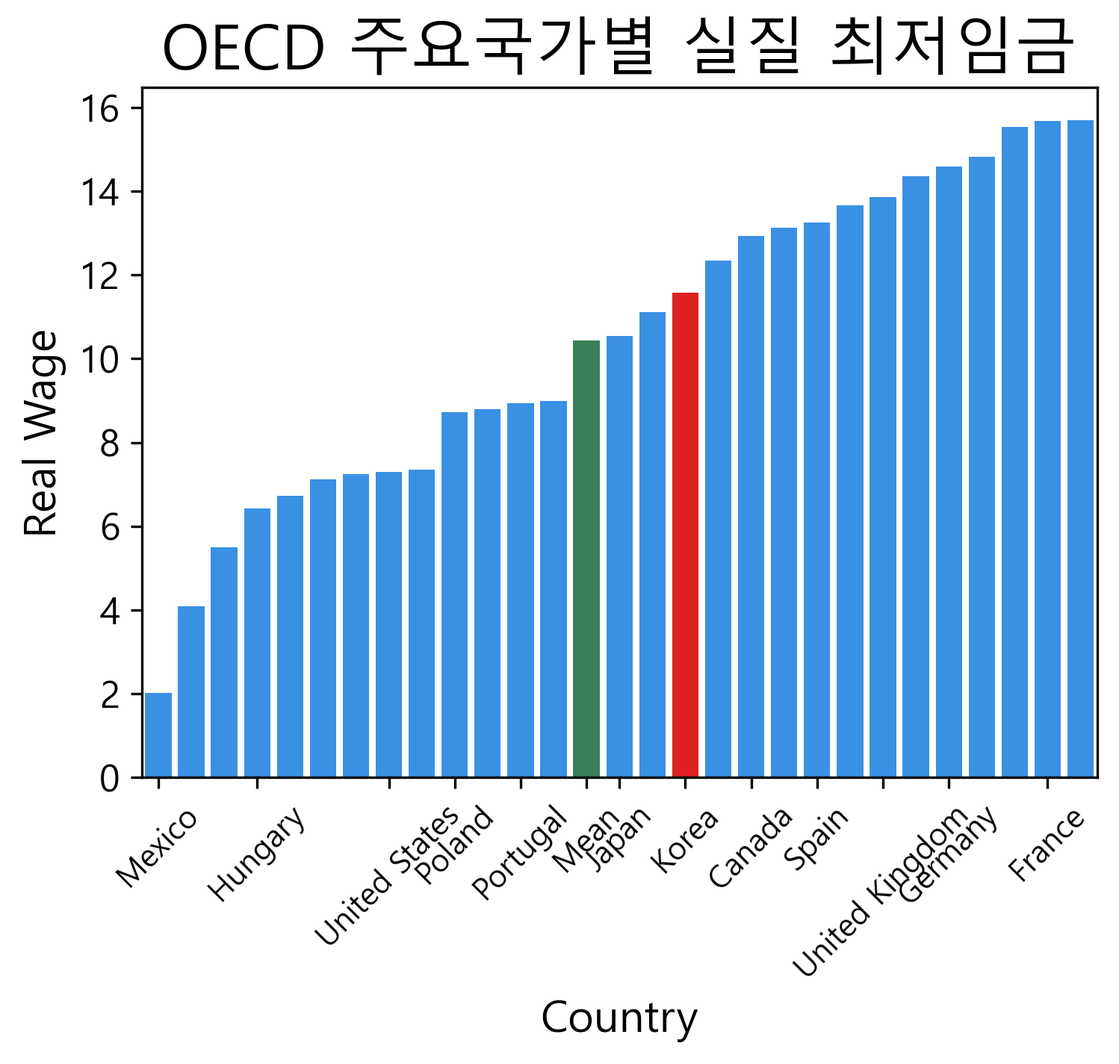
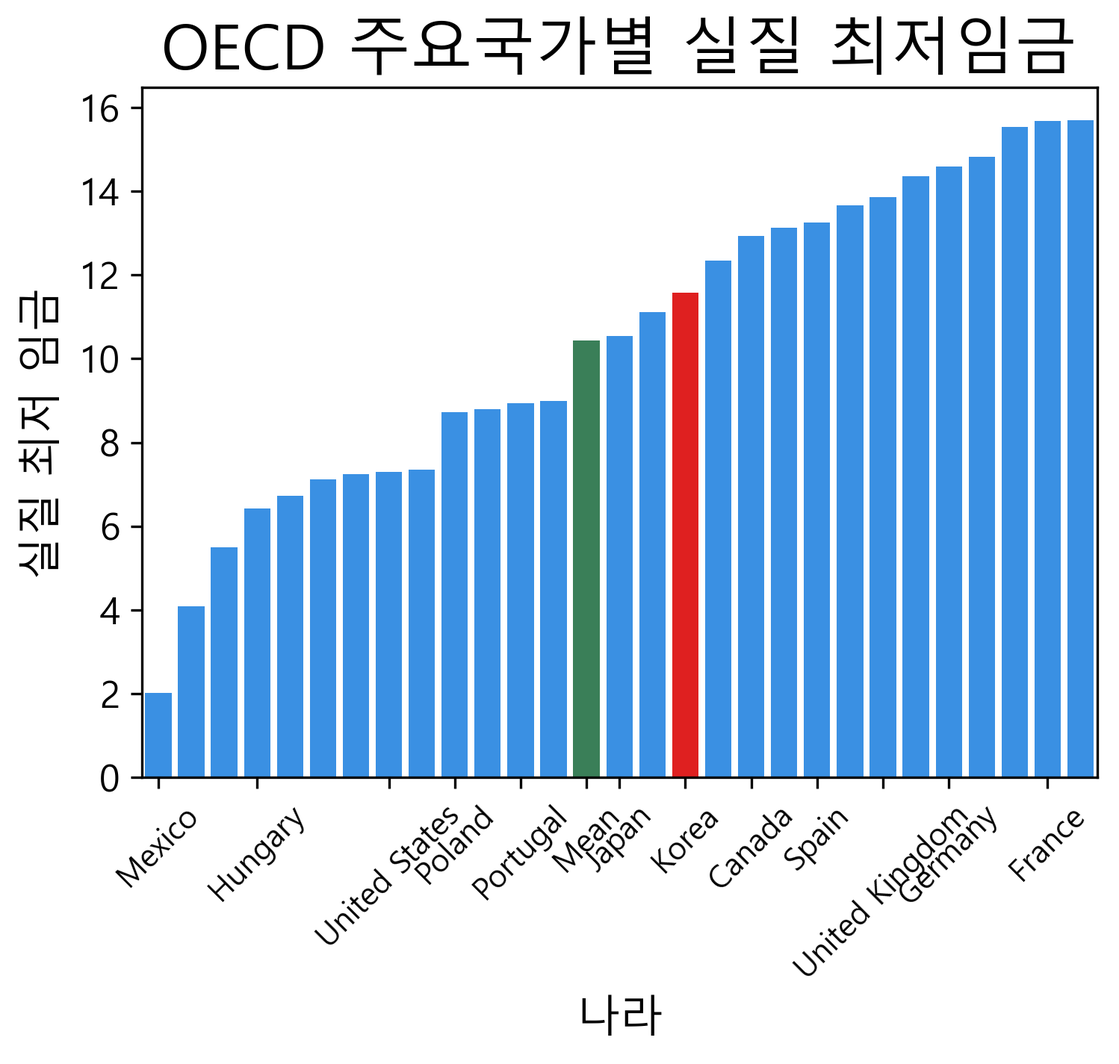
.

Changed region(s): [[0.0, 0.2779, 0.0614, 0.5558], [0.4913, 0.9263, 0.6142, 0.9881]]

diff --git a/docs/index.html b/docs/index.html
@@ -192,7 +192,7 @@ pre > code.sourceCode > span > a:first-child::before { text-decoration: underlin
 
 <section id="최저-임금-데이터-분석" class="level3">
 <h3 class="anchored" data-anchor-id="최저-임금-데이터-분석">최저 임금 데이터 분석</h3>
-<div id="7fcdc7ba" class="cell" data-execution_count="1">
+<div id="cab5e686" class="cell" data-execution_count="1">
 <div class="sourceCode cell-code" id="cb1"><pre class="sourceCode python code-with-copy"><code class="sourceCode python"><span id="cb1-1"><a href="#cb1-1" aria-hidden="true" tabindex="-1"></a><span class="im">import</span> pandas <span class="im">as</span> pd</span>
 <span id="cb1-2"><a href="#cb1-2" aria-hidden="true" tabindex="-1"></a><span class="im">import</span> numpy <span class="im">as</span> np</span>
 <span id="cb1-3"><a href="#cb1-3" aria-hidden="true" tabindex="-1"></a><span class="im">import</span> matplotlib.pyplot <span class="im">as</span> plt    </span>
@@ -242,7 +242,7 @@ pre > code.sourceCode > span > a:first-child::before { text-decoration: underlin
 <ul>
 <li>데이터 파일 읽어오기</li>
 </ul>
-<div id="f24a6ef8" class="cell" data-execution_count="2">
+<div id="66fa9a93" class="cell" data-execution_count="2">
 <div class="sourceCode cell-code" id="cb2"><pre class="sourceCode python code-with-copy"><code class="sourceCode python"><span id="cb2-1"><a href="#cb2-1" aria-hidden="true" tabindex="-1"></a>df <span class="op">=</span> pd.read_excel(<span class="st">"file/cpi_2011to2023.xlsx"</span>)</span>
 <span id="cb2-2"><a href="#cb2-2" aria-hidden="true" tabindex="-1"></a>df.head()</span></code><button title="Copy to Clipboard" class="code-copy-button"><i class="bi"></i></button></pre></div>
 <div class="cell-output cell-output-display" data-execution_count="2">
@@ -407,7 +407,7 @@ pre > code.sourceCode > span > a:first-child::before { text-decoration: underlin
 <ul>
 <li>컬럼명 변경, 행 제거, 특정 컬럼 추출</li>
 </ul>
-<div id="701d913d" class="cell" data-execution_count="3">
+<div id="4cd6f57d" class="cell" data-execution_count="3">
 <div class="sourceCode cell-code" id="cb3"><pre class="sourceCode python code-with-copy"><code class="sourceCode python"><span id="cb3-1"><a href="#cb3-1" aria-hidden="true" tabindex="-1"></a>df.rename(columns <span class="op">=</span> {<span class="st">'시점'</span>:<span class="st">"year"</span>,<span class="st">"전국"</span> : <span class="st">"cpi"</span>,<span class="st">"전국.2"</span>:<span class="st">"food_cpi"</span>},inplace<span class="op">=</span><span class="va">True</span>)</span>
 <span id="cb3-2"><a href="#cb3-2" aria-hidden="true" tabindex="-1"></a>df.drop(<span class="dv">0</span>,inplace<span class="op">=</span><span class="va">True</span>) </span>
 <span id="cb3-3"><a href="#cb3-3" aria-hidden="true" tabindex="-1"></a>df<span class="op">=</span>df[[<span class="st">'year'</span>,<span class="st">'cpi'</span>,<span class="st">'food_cpi'</span>]]</span>
@@ -420,7 +420,7 @@ df.drop(0,inplace=True) 와 df = df.drop(0) 같은 의미이다.</p></li>
 인덱스 번호를 초기화하는 함수로 drop=True 해야 전 인덱스 번호가 사라진다.</p></li>
 <li><p>최저시급 열 추가</p></li>
 </ul>
-<div id="63da2e05" class="cell" data-execution_count="4">
+<div id="053b7279" class="cell" data-execution_count="4">
 <div class="sourceCode cell-code" id="cb4"><pre class="sourceCode python code-with-copy"><code class="sourceCode python"><span id="cb4-1"><a href="#cb4-1" aria-hidden="true" tabindex="-1"></a><span class="bu">list</span> <span class="op">=</span> [<span class="st">"4,320"</span>,<span class="st">"4,580"</span>,<span class="st">"4,860"</span>,<span class="st">"5,210"</span>,<span class="st">"5,580"</span>,<span class="st">"6,030"</span>,<span class="st">"6,470"</span>,<span class="op">\</span></span>
 <span id="cb4-2"><a href="#cb4-2" aria-hidden="true" tabindex="-1"></a>        <span class="st">"7,530"</span>,<span class="st">"8,350"</span>,<span class="st">"8,590"</span>,<span class="st">"8,720"</span>,<span class="st">"9,160"</span>,<span class="st">"9,620"</span>]</span>
 <span id="cb4-3"><a href="#cb4-3" aria-hidden="true" tabindex="-1"></a>df[<span class="st">'min_wage'</span>] <span class="op">=</span> np.array(<span class="bu">list</span>)</span>
@@ -485,7 +485,7 @@ df.drop(0,inplace=True) 와 df = df.drop(0) 같은 의미이다.</p></li>
 <ul>
 <li>최저시급과 연도 컬럼 정수형으로 변경</li>
 </ul>
-<div id="07528c29" class="cell" data-execution_count="5">
+<div id="b5411faa" class="cell" data-execution_count="5">
 <div class="sourceCode cell-code" id="cb5"><pre class="sourceCode python code-with-copy"><code class="sourceCode python"><span id="cb5-1"><a href="#cb5-1" aria-hidden="true" tabindex="-1"></a><span class="bu">type</span>(df[<span class="st">"min_wage"</span>][<span class="dv">0</span>])</span>
 <span id="cb5-2"><a href="#cb5-2" aria-hidden="true" tabindex="-1"></a><span class="bu">type</span>(df[<span class="st">"year"</span>][<span class="dv">0</span>])</span>
 <span id="cb5-3"><a href="#cb5-3" aria-hidden="true" tabindex="-1"></a>df[<span class="st">"min_wage"</span>] <span class="op">=</span> df[<span class="st">"min_wage"</span>].<span class="bu">str</span>.replace(<span class="st">','</span>,<span class="st">""</span>).astype(<span class="bu">int</span>) </span>
@@ -496,7 +496,7 @@ df.drop(0,inplace=True) 와 df = df.drop(0) 같은 의미이다.</p></li>
 <pre><code>numpy.int64</code></pre>
 </div>
 </div>
-<div id="dddc4649" class="cell" data-execution_count="6">
+<div id="8a347319" class="cell" data-execution_count="6">
 <div class="sourceCode cell-code" id="cb7"><pre class="sourceCode python code-with-copy"><code class="sourceCode python"><span id="cb7-1"><a href="#cb7-1" aria-hidden="true" tabindex="-1"></a>df</span></code><button title="Copy to Clipboard" class="code-copy-button"><i class="bi"></i></button></pre></div>
 <div class="cell-output cell-output-display" data-execution_count="6">
 <div>
@@ -613,7 +613,7 @@ df.drop(0,inplace=True) 와 df = df.drop(0) 같은 의미이다.</p></li>
 <ul>
 <li>소비자 물가 지수 기준을 2011년으로 변환</li>
 </ul>
-<div id="7f854112" class="cell" data-execution_count="7">
+<div id="a81d74fa" class="cell" data-execution_count="7">
 <div class="sourceCode cell-code" id="cb8"><pre class="sourceCode python code-with-copy"><code class="sourceCode python"><span id="cb8-1"><a href="#cb8-1" aria-hidden="true" tabindex="-1"></a>cpi_coefficent<span class="op">=</span>df[<span class="st">'cpi'</span>][<span class="dv">0</span>]<span class="op">/</span>df[<span class="st">'cpi'</span>][<span class="dv">9</span>]</span>
 <span id="cb8-2"><a href="#cb8-2" aria-hidden="true" tabindex="-1"></a>food_coefficent<span class="op">=</span>df[<span class="st">'food_cpi'</span>][<span class="dv">0</span>]<span class="op">/</span>df[<span class="st">'food_cpi'</span>][<span class="dv">9</span>]</span>
 <span id="cb8-3"><a href="#cb8-3" aria-hidden="true" tabindex="-1"></a>df[<span class="st">"cpi"</span>] <span class="op">=</span> df[<span class="st">"cpi"</span>]<span class="op">/</span>cpi_coefficent</span>
@@ -682,7 +682,7 @@ df.drop(0,inplace=True) 와 df = df.drop(0) 같은 의미이다.</p></li>
 <ul>
 <li>인플레이션 계산</li>
 </ul>
-<div id="d01f5733" class="cell" data-execution_count="8">
+<div id="158281e2" class="cell" data-execution_count="8">
 <div class="sourceCode cell-code" id="cb9"><pre class="sourceCode python code-with-copy"><code class="sourceCode python"><span id="cb9-1"><a href="#cb9-1" aria-hidden="true" tabindex="-1"></a>df[<span class="st">"inflation"</span>] <span class="op">=</span> <span class="fl">0.0</span></span>
 <span id="cb9-2"><a href="#cb9-2" aria-hidden="true" tabindex="-1"></a></span>
 <span id="cb9-3"><a href="#cb9-3" aria-hidden="true" tabindex="-1"></a><span class="cf">for</span> i <span class="kw">in</span> <span class="bu">range</span>(<span class="dv">1</span>, <span class="bu">len</span>(df)):</span>
@@ -754,12 +754,12 @@ df.drop(0,inplace=True) 와 df = df.drop(0) 같은 의미이다.</p></li>
 <ul>
 <li>식품 인플레이션 계산</li>
 </ul>
-<div id="d74148aa" class="cell" data-messeage="false" data-execution_count="9">
+<div id="6b7a01c3" class="cell" data-messeage="false" data-execution_count="9">
 <div class="sourceCode cell-code" id="cb10"><pre class="sourceCode python code-with-copy"><code class="sourceCode python"><span id="cb10-1"><a href="#cb10-1" aria-hidden="true" tabindex="-1"></a>df[<span class="st">'food_inflation'</span>] <span class="op">=</span> <span class="dv">0</span></span>
 <span id="cb10-2"><a href="#cb10-2" aria-hidden="true" tabindex="-1"></a><span class="cf">for</span> i <span class="kw">in</span> <span class="bu">range</span>(<span class="dv">1</span>, <span class="bu">len</span>(df)):<span class="op">\</span></span>
 <span id="cb10-3"><a href="#cb10-3" aria-hidden="true" tabindex="-1"></a>    df.loc[i, <span class="st">"food_inflation"</span>] <span class="op">=</span> ((df.loc[i, <span class="st">"food_cpi"</span>] <span class="op">-</span> df.loc[i<span class="op">-</span><span class="dv">1</span>, <span class="st">"food_cpi"</span>])<span class="op">\</span></span>
 <span id="cb10-4"><a href="#cb10-4" aria-hidden="true" tabindex="-1"></a>   <span class="op">/</span>df.loc[i<span class="op">-</span><span class="dv">1</span>, <span class="st">"food_cpi"</span>]) <span class="op">*</span> <span class="dv">100</span></span>
-<span id="cb10-5"><a href="#cb10-5" aria-hidden="true" tabindex="-1"></a>df[<span class="st">'food_inflation'</span>] <span class="op">=</span> df[<span class="st">'food_inflation'</span>].fillna(<span class="dv">0</span>)</span>
+<span id="cb10-5"><a href="#cb10-5" aria-hidden="true" tabindex="-1"></a></span>
 <span id="cb10-6"><a href="#cb10-6" aria-hidden="true" tabindex="-1"></a>df.head()</span></code><button title="Copy to Clipboard" class="code-copy-button"><i class="bi"></i></button></pre></div>
 <div class="cell-output cell-output-display" data-execution_count="9">
 <div>
@@ -832,7 +832,7 @@ df.drop(0,inplace=True) 와 df = df.drop(0) 같은 의미이다.</p></li>
 </section>
 <section id="인플레이션-식품-인플레이션-비교-그래프" class="level3">
 <h3 class="anchored" data-anchor-id="인플레이션-식품-인플레이션-비교-그래프">인플레이션, 식품 인플레이션 비교 그래프</h3>
-<div id="ad19767b" class="cell" data-execution_count="10">
+<div id="a013fc4b" class="cell" data-execution_count="10">
 <div class="sourceCode cell-code" id="cb11"><pre class="sourceCode python code-with-copy"><code class="sourceCode python"><span id="cb11-1"><a href="#cb11-1" aria-hidden="true" tabindex="-1"></a>plt.clf()</span>
 <span id="cb11-2"><a href="#cb11-2" aria-hidden="true" tabindex="-1"></a>plt.figure(figsize<span class="op">=</span>(<span class="fl">5.5</span>,<span class="dv">4</span>))</span>
 <span id="cb11-3"><a href="#cb11-3" aria-hidden="true" tabindex="-1"></a>sns.lineplot(data<span class="op">=</span>df, x<span class="op">=</span><span class="st">'year'</span>, y<span class="op">=</span><span class="st">'food_inflation'</span>,color<span class="op">=</span><span class="st">'red'</span> ,label<span class="op">=</span><span class="st">'식품 인플레이션'</span>, marker<span class="op">=</span><span class="st">'o'</span>)</span>
@@ -861,7 +861,7 @@ df.drop(0,inplace=True) 와 df = df.drop(0) 같은 의미이다.</p></li>
 <ul>
 <li>최저시급, 실질 최저시급 상승률</li>
 </ul>
-<div id="5924b447" class="cell" data-messeage="false" data-execution_count="11">
+<div id="f66070d4" class="cell" data-messeage="false" data-execution_count="11">
 <div class="sourceCode cell-code" id="cb13"><pre class="sourceCode python code-with-copy"><code class="sourceCode python"><span id="cb13-1"><a href="#cb13-1" aria-hidden="true" tabindex="-1"></a>infla_coefficient <span class="op">=</span> np.array(<span class="dv">100</span><span class="op">/</span>df[<span class="st">'cpi'</span>])</span>
 <span id="cb13-2"><a href="#cb13-2" aria-hidden="true" tabindex="-1"></a></span>
 <span id="cb13-3"><a href="#cb13-3" aria-hidden="true" tabindex="-1"></a>df[<span class="st">'real_wage'</span>] <span class="op">=</span> df[<span class="st">'min_wage'</span>] <span class="op">*</span> infla_coefficient</span>
@@ -969,7 +969,7 @@ df.drop(0,inplace=True) 와 df = df.drop(0) 같은 의미이다.</p></li>
 </section>
 <section id="최저시급-실질-최저시급-상승률-비교" class="level3">
 <h3 class="anchored" data-anchor-id="최저시급-실질-최저시급-상승률-비교">최저시급/ 실질 최저시급 상승률 비교</h3>
-<div id="9ec63fff" class="cell" data-execution_count="12">
+<div id="f78532e1" class="cell" data-execution_count="12">
 <div class="sourceCode cell-code" id="cb14"><pre class="sourceCode python code-with-copy"><code class="sourceCode python"><span id="cb14-1"><a href="#cb14-1" aria-hidden="true" tabindex="-1"></a>plt.figure(figsize<span class="op">=</span>(<span class="fl">5.5</span>,<span class="dv">4</span>))</span>
 <span id="cb14-2"><a href="#cb14-2" aria-hidden="true" tabindex="-1"></a>sns.lineplot(data<span class="op">=</span>df,x<span class="op">=</span><span class="st">'year'</span>,y<span class="op">=</span><span class="st">'min_wage_roc'</span>,color<span class="op">=</span><span class="st">'red'</span>,label<span class="op">=</span><span class="st">' 최저시급 변화율'</span>,marker<span class="op">=</span><span class="st">'o'</span>)</span>
 <span id="cb14-3"><a href="#cb14-3" aria-hidden="true" tabindex="-1"></a>sns.lineplot(data<span class="op">=</span>df,x<span class="op">=</span><span class="st">'year'</span>,y<span class="op">=</span><span class="st">'real_wage_roc'</span>,color<span class="op">=</span><span class="st">'dodgerblue'</span>,label<span class="op">=</span><span class="st">'실질 최저시급 변화율'</span>,marker<span class="op">=</span><span class="st">'o'</span>)</span>
@@ -1007,7 +1007,7 @@ df.drop(0,inplace=True) 와 df = df.drop(0) 같은 의미이다.</p></li>
 <ul>
 <li>칼럼 확인</li>
 </ul>
-<div id="47abe530" class="cell" data-execution_count="13">
+<div id="7f4b3264" class="cell" data-execution_count="13">
 <div class="sourceCode cell-code" id="cb15"><pre class="sourceCode python code-with-copy"><code class="sourceCode python"><span id="cb15-1"><a href="#cb15-1" aria-hidden="true" tabindex="-1"></a>before_frame <span class="op">=</span> pd.read_excel(<span class="st">"file/2/최저임금데이터_df.xlsx"</span>)</span>
 <span id="cb15-2"><a href="#cb15-2" aria-hidden="true" tabindex="-1"></a>path1, path2 <span class="op">=</span> [<span class="st">"file/2/PPP원데이터_df.xlsx"</span>,<span class="st">"file/2/환율원데이터_df.xlsx"</span>]</span>
 <span id="cb15-3"><a href="#cb15-3" aria-hidden="true" tabindex="-1"></a>df2 <span class="op">=</span> pd.read_excel(path1) </span>
@@ -1302,7 +1302,7 @@ df.drop(0,inplace=True) 와 df = df.drop(0) 같은 의미이다.</p></li>
 <ul>
 <li>추가 데이터 병합 및 열 지정 (1)</li>
 </ul>
-<div id="53d5b6b8" class="cell" data-execution_count="14">
+<div id="352e26df" class="cell" data-execution_count="14">
 <div class="sourceCode cell-code" id="cb16"><pre class="sourceCode python code-with-copy"><code class="sourceCode python"><span id="cb16-1"><a href="#cb16-1" aria-hidden="true" tabindex="-1"></a>df2.rename(columns <span class="op">=</span> {<span class="st">"Reference area"</span>:<span class="st">"country"</span>,<span class="st">"Unnamed: 3"</span>:<span class="st">"dollar_ppp"</span>},inplace<span class="op">=</span><span class="va">True</span>)</span>
 <span id="cb16-2"><a href="#cb16-2" aria-hidden="true" tabindex="-1"></a>df2[<span class="st">"dollar_ppp"</span>] <span class="op">=</span> df2[<span class="st">"dollar_ppp"</span>].astype(<span class="bu">float</span>)</span>
 <span id="cb16-3"><a href="#cb16-3" aria-hidden="true" tabindex="-1"></a></span>
@@ -1373,7 +1373,7 @@ df.drop(0,inplace=True) 와 df = df.drop(0) 같은 의미이다.</p></li>
 <ul>
 <li>추가 데이터 병합 및 열 지정 (2)</li>
 </ul>
-<div id="c24eefa9" class="cell" data-execution_count="15">
+<div id="1be08d60" class="cell" data-execution_count="15">
 <div class="sourceCode cell-code" id="cb17"><pre class="sourceCode python code-with-copy"><code class="sourceCode python"><span id="cb17-1"><a href="#cb17-1" aria-hidden="true" tabindex="-1"></a>df3 <span class="op">=</span> pd.read_excel(path2) </span>
 <span id="cb17-2"><a href="#cb17-2" aria-hidden="true" tabindex="-1"></a>df3.rename(columns <span class="op">=</span> {<span class="st">"Reference area"</span>:<span class="st">"country"</span>,<span class="st">"Unnamed: 4"</span>:<span class="st">"exchange_rate"</span>},inplace<span class="op">=</span><span class="va">True</span>)</span>
 <span id="cb17-3"><a href="#cb17-3" aria-hidden="true" tabindex="-1"></a>df3 <span class="op">=</span> df3[df3[<span class="st">'Transaction'</span>]<span class="op">==</span><span class="st">"Exchange rates, average"</span>].reset_index(drop<span class="op">=</span><span class="va">True</span>)</span>
@@ -1451,7 +1451,7 @@ df.drop(0,inplace=True) 와 df = df.drop(0) 같은 의미이다.</p></li>
 <li><p><strong>각 나라의 물가 수준과 환율을 이용하여 달러로 변환한 실질 최저 시급 도출</strong></p></li>
 <li><p>환율/ PPP 열 추가</p></li>
 </ul>
-<div id="f27ecc8f" class="cell" data-execution_count="16">
+<div id="49257e35" class="cell" data-execution_count="16">
 <div class="sourceCode cell-code" id="cb18"><pre class="sourceCode python code-with-copy"><code class="sourceCode python"><span id="cb18-1"><a href="#cb18-1" aria-hidden="true" tabindex="-1"></a>oecd[<span class="st">"coefficient"</span>] <span class="op">=</span> oecd[<span class="st">"exchange_rate"</span>]<span class="op">/</span>oecd[<span class="st">"dollar_ppp"</span>]</span>
 <span id="cb18-2"><a href="#cb18-2" aria-hidden="true" tabindex="-1"></a>oecd[<span class="st">"real_wage"</span>] <span class="op">=</span> oecd[<span class="st">"min_wage"</span>]<span class="op">*</span>oecd[<span class="st">"coefficient"</span>]</span>
 <span id="cb18-3"><a href="#cb18-3" aria-hidden="true" tabindex="-1"></a></span>
@@ -1533,7 +1533,7 @@ df.drop(0,inplace=True) 와 df = df.drop(0) 같은 의미이다.</p></li>
 <ul>
 <li>OECD 국가별 최저임금 비교</li>
 </ul>
-<div id="f4b1d57d" class="cell" data-messeage="false" data-execution_count="17">
+<div id="c2e563cb" class="cell" data-messeage="false" data-execution_count="17">
 <div class="sourceCode cell-code" id="cb19"><pre class="sourceCode python code-with-copy"><code class="sourceCode python"><span id="cb19-1"><a href="#cb19-1" aria-hidden="true" tabindex="-1"></a>oecd <span class="op">=</span> oecd.sort_values(<span class="st">"real_wage"</span>,ascending<span class="op">=</span><span class="va">True</span>).reset_index(drop<span class="op">=</span><span class="va">True</span>)</span>
 <span id="cb19-2"><a href="#cb19-2" aria-hidden="true" tabindex="-1"></a>plt.clf()</span>
 <span id="cb19-3"><a href="#cb19-3" aria-hidden="true" tabindex="-1"></a>plt.figure(figsize<span class="op">=</span>(<span class="dv">8</span>,<span class="dv">4</span>))</span>
@@ -1564,7 +1564,7 @@ df.drop(0,inplace=True) 와 df = df.drop(0) 같은 의미이다.</p></li>
 </ul>
 <section id="oecd-평균-임금-추가한-그래프" class="level3">
 <h3 class="anchored" data-anchor-id="oecd-평균-임금-추가한-그래프">OECD 평균 임금 추가한 그래프</h3>
-<div id="0c88ba73" class="cell" data-messeage="false" data-execution_count="18">
+<div id="176b221e" class="cell" data-messeage="false" data-execution_count="18">
 <div class="sourceCode cell-code" id="cb21"><pre class="sourceCode python code-with-copy"><code class="sourceCode python"><span id="cb21-1"><a href="#cb21-1" aria-hidden="true" tabindex="-1"></a>mean1 <span class="op">=</span> oecd[<span class="st">"real_wage"</span>].mean()</span>
 <span id="cb21-2"><a href="#cb21-2" aria-hidden="true" tabindex="-1"></a><span class="co">#country 에 평균 임금을 추가.</span></span>
 <span id="cb21-3"><a href="#cb21-3" aria-hidden="true" tabindex="-1"></a>frame <span class="op">=</span> pd.DataFrame({<span class="st">"country"</span>:<span class="st">'Mean'</span>,<span class="st">"real_wage"</span>:mean1},index<span class="op">=</span>[<span class="dv">0</span>])</span>
@@ -1574,7 +1574,7 @@ df.drop(0,inplace=True) 와 df = df.drop(0) 같은 의미이다.</p></li>
 <ul>
 <li></li>
 </ul>
-<div id="9a56b4a3" class="cell" data-messeage="false" data-execution_count="19">
+<div id="46028d38" class="cell" data-messeage="false" data-execution_count="19">
 <div class="sourceCode cell-code" id="cb22"><pre class="sourceCode python code-with-copy"><code class="sourceCode python"><span id="cb22-1"><a href="#cb22-1" aria-hidden="true" tabindex="-1"></a><span class="co">#Mean,Korea 색 다르게 하기</span></span>
 <span id="cb22-2"><a href="#cb22-2" aria-hidden="true" tabindex="-1"></a>bar_colors <span class="op">=</span> np.where(oecd1[<span class="st">"country"</span>]<span class="op">==</span><span class="st">"Korea"</span>,<span class="st">"red"</span>,np.where(oecd1[<span class="st">"country"</span>]<span class="op">==</span><span class="st">"Mean"</span>,<span class="st">"seagreen"</span>,<span class="st">"dodgerblue"</span>))</span>
 <span id="cb22-3"><a href="#cb22-3" aria-hidden="true" tabindex="-1"></a></span>
@@ -1588,7 +1588,7 @@ df.drop(0,inplace=True) 와 df = df.drop(0) 같은 의미이다.</p></li>
 <ul>
 <li></li>
 </ul>
-<div id="20835b34" class="cell" data-execution_count="20">
+<div id="21b5c83a" class="cell" data-execution_count="20">
 <div class="sourceCode cell-code" id="cb23"><pre class="sourceCode python code-with-copy"><code class="sourceCode python"><span id="cb23-1"><a href="#cb23-1" aria-hidden="true" tabindex="-1"></a>oecd1[<span class="st">"country"</span>]</span></code><button title="Copy to Clipboard" class="code-copy-button"><i class="bi"></i></button></pre></div>
 <div class="cell-output cell-output-display" data-execution_count="19">
 <pre><code>0              Mexico
@@ -1626,7 +1626,7 @@ Name: country, dtype: object</code></pre>
 <ul>
 <li></li>
 </ul>
-<div id="ac7aee56" class="cell" data-messeage="false" data-execution_count="21">
+<div id="cb819bce" class="cell" data-messeage="false" data-execution_count="21">
 <div class="sourceCode cell-code" id="cb25"><pre class="sourceCode python code-with-copy"><code class="sourceCode python"><span id="cb25-1"><a href="#cb25-1" aria-hidden="true" tabindex="-1"></a>show_country_label <span class="op">=</span> [<span class="dv">0</span>,<span class="dv">3</span>,<span class="dv">7</span>,<span class="dv">9</span>,<span class="dv">11</span>,<span class="dv">13</span>,<span class="dv">14</span>,<span class="dv">16</span>,<span class="dv">18</span>,<span class="dv">20</span>,<span class="dv">22</span>,<span class="dv">24</span>,<span class="dv">27</span>]</span>
 <span id="cb25-2"><a href="#cb25-2" aria-hidden="true" tabindex="-1"></a></span>
 <span id="cb25-3"><a href="#cb25-3" aria-hidden="true" tabindex="-1"></a>show_country <span class="op">=</span> [<span class="st">'Mexico'</span>, <span class="st">'Hungary'</span>, <span class="st">'United States'</span>, <span class="st">'Poland'</span>, <span class="st">'Portugal'</span>, <span class="st">'Mean'</span>,<span class="st">'Japan'</span>, <span class="st">'Korea'</span>, <span class="st">'Canada'</span>, <span class="st">'Spain'</span>,<span class="op">\</span></span>
@@ -1641,7 +1641,7 @@ Name: country, dtype: object</code></pre>
 </section>
 <section id="oecd-주요-국가의-평균-실질-임금-그래프" class="level2">
 <h2 class="anchored" data-anchor-id="oecd-주요-국가의-평균-실질-임금-그래프">OECD 주요 국가의 평균 실질 임금 그래프</h2>
-<div id="964c6e8b" class="cell" data-messeage="false" data-execution_count="22">
+<div id="52139df9" class="cell" data-messeage="false" data-execution_count="22">
 <div class="sourceCode cell-code" id="cb26"><pre class="sourceCode python code-with-copy"><code class="sourceCode python"><span id="cb26-1"><a href="#cb26-1" aria-hidden="true" tabindex="-1"></a>mean1 <span class="op">=</span> oecd[<span class="st">"real_wage"</span>].mean()</span>
 <span id="cb26-2"><a href="#cb26-2" aria-hidden="true" tabindex="-1"></a>frame <span class="op">=</span> pd.DataFrame({<span class="st">"country"</span>:<span class="st">'Mean'</span>,<span class="st">"real_wage"</span>:mean1},index<span class="op">=</span>[<span class="dv">0</span>])</span>
 <span id="cb26-3"><a href="#cb26-3" aria-hidden="true" tabindex="-1"></a>oecd1 <span class="op">=</span> pd.concat([oecd,frame])</span>
@@ -1653,8 +1653,8 @@ Name: country, dtype: object</code></pre>
 <span id="cb26-9"><a href="#cb26-9" aria-hidden="true" tabindex="-1"></a>sns.barplot(data<span class="op">=</span>oecd1.sort_values(<span class="st">"real_wage"</span>,ascending<span class="op">=</span><span class="va">True</span>),<span class="op">\</span></span>
 <span id="cb26-10"><a href="#cb26-10" aria-hidden="true" tabindex="-1"></a>x<span class="op">=</span><span class="st">'country'</span>, y<span class="op">=</span><span class="st">'real_wage'</span>, palette<span class="op">=</span>bar_colors)</span>
 <span id="cb26-11"><a href="#cb26-11" aria-hidden="true" tabindex="-1"></a></span>
-<span id="cb26-12"><a href="#cb26-12" aria-hidden="true" tabindex="-1"></a>plt.xlabel(<span class="st">'Country'</span>,fontsize<span class="op">=</span><span class="dv">14</span>)  <span class="co"># 축 제목 글씨 크기 조정</span></span>
-<span id="cb26-13"><a href="#cb26-13" aria-hidden="true" tabindex="-1"></a>plt.ylabel(<span class="st">'Real Wage'</span>,fontsize<span class="op">=</span><span class="dv">14</span>)  <span class="co"># 축 제목 글씨 크기 조정</span></span>
+<span id="cb26-12"><a href="#cb26-12" aria-hidden="true" tabindex="-1"></a>plt.xlabel(<span class="st">'나라'</span>,fontsize<span class="op">=</span><span class="dv">14</span>)  <span class="co"># 축 제목 글씨 크기 조정</span></span>
+<span id="cb26-13"><a href="#cb26-13" aria-hidden="true" tabindex="-1"></a>plt.ylabel(<span class="st">'실질 최저 임금'</span>,fontsize<span class="op">=</span><span class="dv">14</span>)  <span class="co"># 축 제목 글씨 크기 조정</span></span>
 <span id="cb26-14"><a href="#cb26-14" aria-hidden="true" tabindex="-1"></a>plt.title(<span class="st">'OECD 주요국가별 실질 최저임금'</span>, fontsize<span class="op">=</span><span class="dv">20</span>)  <span class="co"># 제목 글씨 크기 조정</span></span>
 <span id="cb26-15"><a href="#cb26-15" aria-hidden="true" tabindex="-1"></a>show_country_label <span class="op">=</span> [<span class="dv">0</span>,<span class="dv">3</span>,<span class="dv">7</span>,<span class="dv">9</span>,<span class="dv">11</span>,<span class="dv">13</span>,<span class="dv">14</span>,<span class="dv">16</span>,<span class="dv">18</span>,<span class="dv">20</span>,<span class="dv">22</span>,<span class="dv">24</span>,<span class="dv">27</span>]</span>
 <span id="cb26-16"><a href="#cb26-16" aria-hidden="true" tabindex="-1"></a></span>
